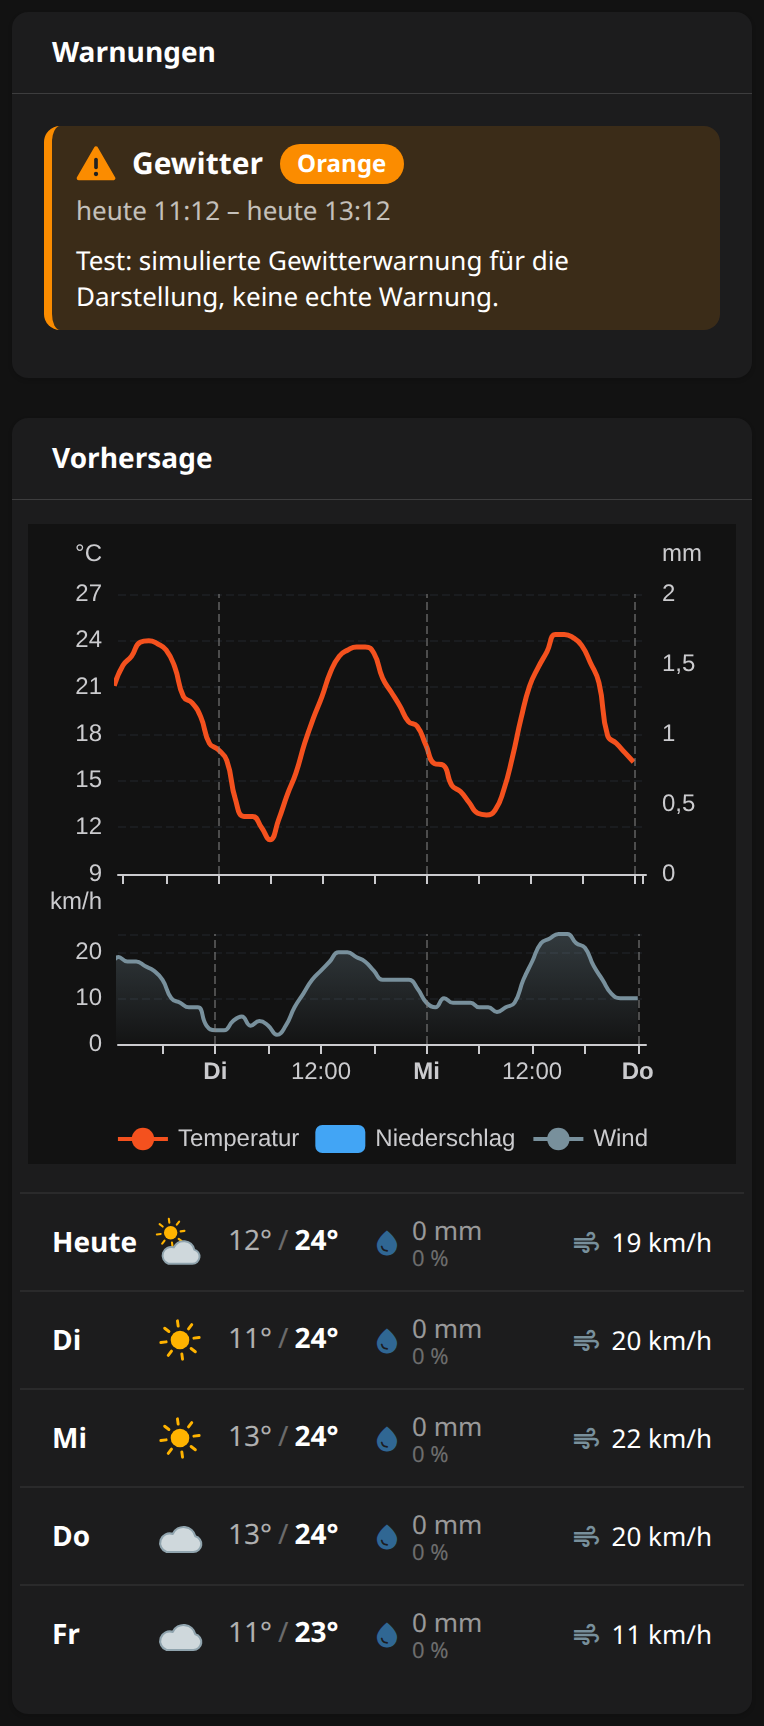
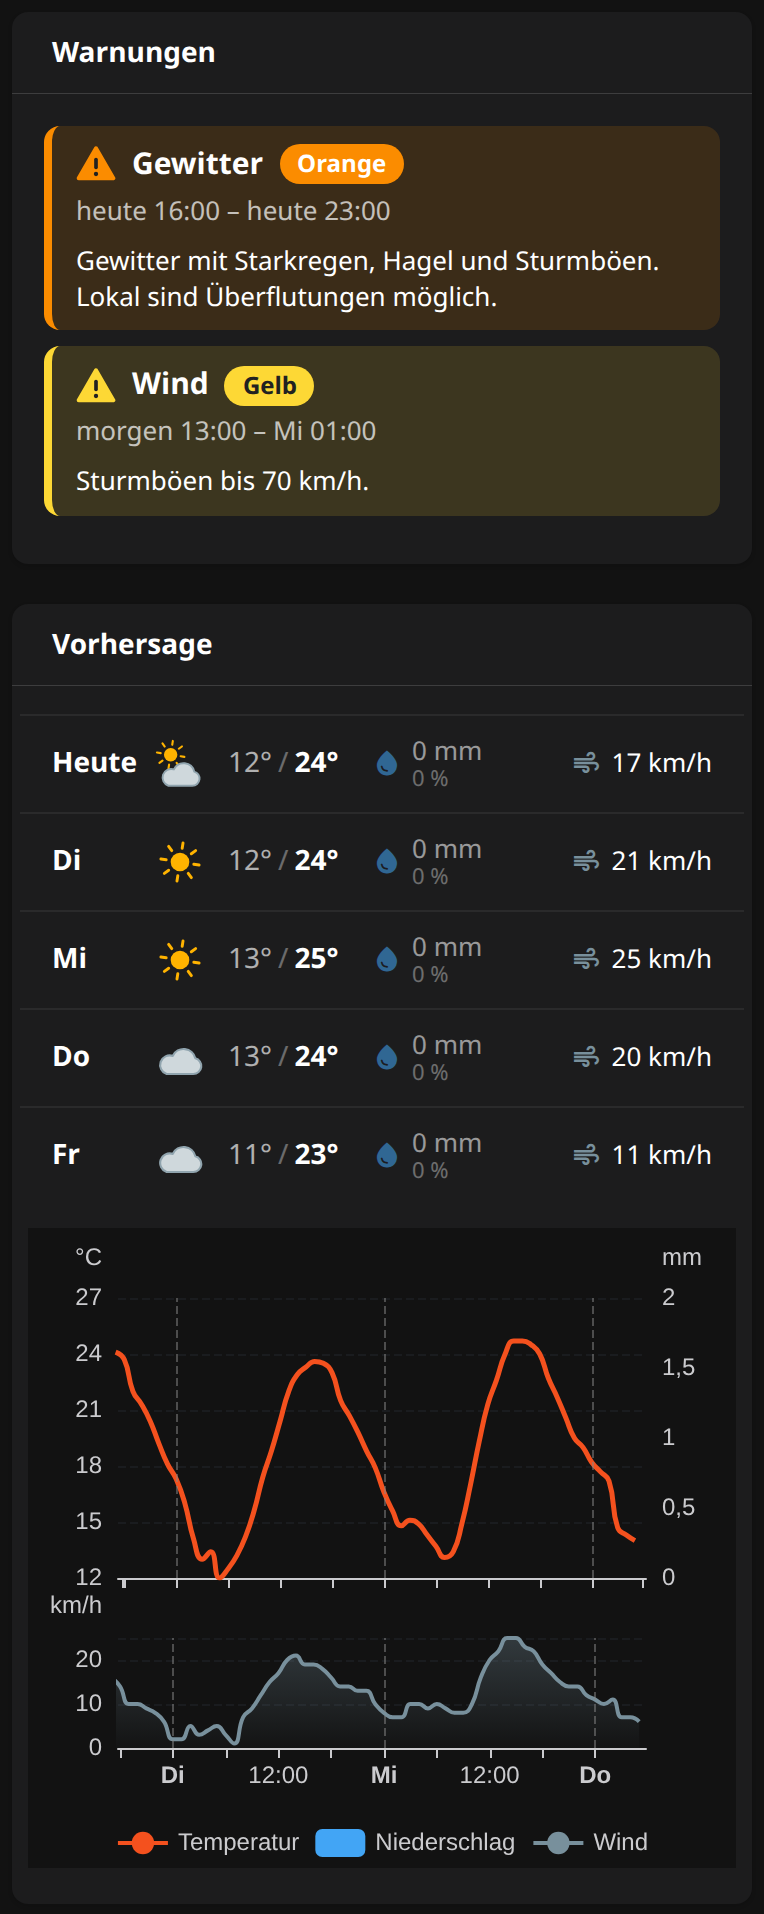
widgets: the forecast popup's days above its chart
- Retake the forecast popup's screenshots with the day rows above the
  chart of the next hours, light and dark
- Describe the warnings rule's broadcast from orange on in the README

diff --git a/README.md b/README.md
@@ -84,7 +84,8 @@ and the minimum and maximum of today and the next two days. While an official wa
 or begins within 24 hours, a small warning sign in its level's colour (yellow, orange, red) sits at the drawing's
 corner. A tap opens the forecast popup of my installation (see [Weather](#weather)). Its items come from two rules,
 `scripts/openhab-ui/applied/weather_forecast_rule.js`, which reads Open-Meteo's GeoSphere AROME Austria model, and
-`weather_warnings_rule.js`, which reads GeoSphere Austria's warnings.
+`weather_warnings_rule.js`, which reads GeoSphere Austria's warnings and sends a broadcast notification when their level
+rises to orange or red.
 
 Needs `weather-icon`.
 
@@ -947,7 +948,7 @@ The weather drawn from a WMO code in the style of the energy flow's nodes: the s
 while `day` is false, alone when it is clear (code 0) and behind a small cloud when partly cloudy (1, 2); a cloud (3),
 raised over fog (45, 48), falling rain (drizzle, rain and showers: 51 to 67, 80 to 82), drifting snow (71 to 77, 85, 86)
 or a flickering bolt (95 to 99). Nothing while `code` is no number, as an item is `NULL` after a restart. My weather bar
-shows the present weather with it, and my forecast popup each day's, below a chart of the next 60 hours: temperature
+shows the present weather with it, and my forecast popup each day's, above a chart of the next 60 hours: temperature
 over the precipitation of each hour, the wind below. That popup is a page of my installation, not a widget of this
 repository; its rule writes the forecast as JSON into String items, and the chart reads them through an `oh-data-series`
 whose `data` is an expression such as `=JSON.parse(items.weather_hourly.state).map((r) => [r[0] * 1000, r[1]])`, with no
@@ -955,7 +956,7 @@ persistence involved. The warnings in the screenshots are demo values.
 
 | Light | Dark |
 |---|---|
-| ![Forecast popup: warnings, chart and days](screenshots/forecast-popup.png) | ![Forecast popup in dark mode](screenshots/forecast-popup-dark.png) |
+| ![Forecast popup: warnings, days and chart](screenshots/forecast-popup.png) | ![Forecast popup in dark mode](screenshots/forecast-popup-dark.png) |
 
 ```yaml
 component: widget:weather-icon
